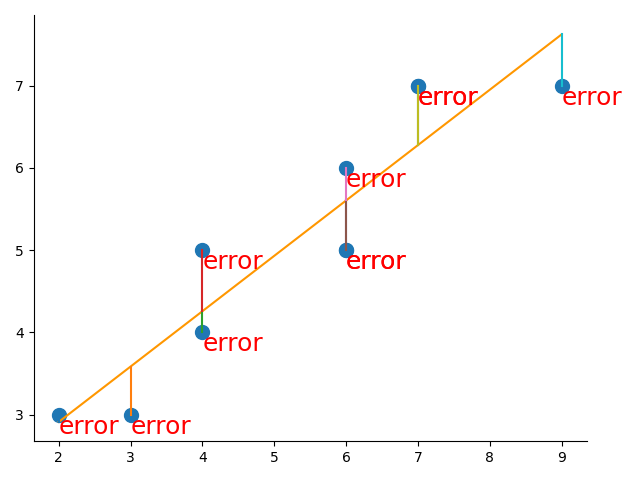
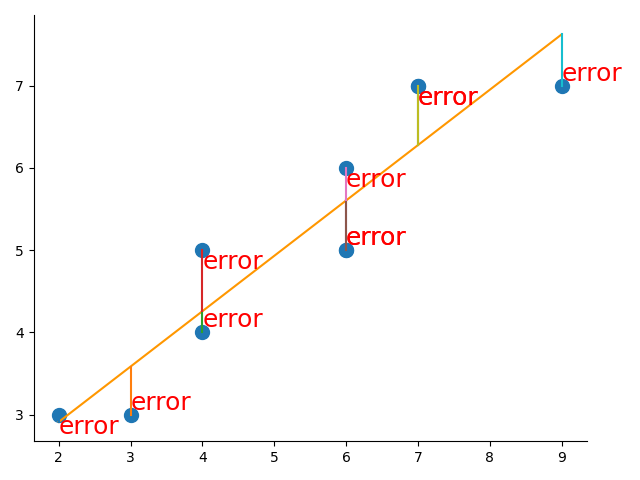
setInfo

diff --git a/test/fun/test_LeastSquaresRegression.py b/test/fun/test_LeastSquaresRegression.py
@@ -76,17 +76,15 @@ class TDD_TEST_LEASTSQUARESREGRESSION(unittest.TestCase):
     def test_least_squares_definition(self):
         # A way of finding a "line of best fit" by making the total of the square of the errors as small as possible (which is why it is called "least squares").
         x, y = self.p.getSortedXyInt((0,10,10),(2.5,8,10))
-        annos=[]
-        for item in zip(x,y):
-            t='error'
-            annos.append({'position': item, 'txt': t, 'color': 'red','fontsize':18,'center':'left','vertical':'top'})
         lineX=reduce(lambda acc,item:acc+[list(item)],zip(x,x),[])
         self.assertRaises(ValueError,lambda:self.p.predict(x))
-        predictY=self.p.leastSquaresRegression(x,y)[3]
+        self.p.setInfo({'x':x,'y':y})
+        predictY=self.p.predict(x)
         lineY=reduce(lambda acc,item:acc+[list(item)],zip(y,predictY),[])
+        annos=self.p.getAnnos(zip(x,y),predictY)
         self.p\
             .clear()\
-            .scatter({"x":x, "y": y},s=100)\
+            .scatter(s=100)\
             .plotFitLine(color='#FF9700')\
             .drawTxt(annos)\
             .plotLine(lineX,lineY,isSeparate=True)\
@@ -97,6 +95,5 @@ class TDD_TEST_LEASTSQUARESREGRESSION(unittest.TestCase):
         # self.p\
         #     .plotLine(x,y)\
         #     .pltCartesianCoordinate(hideAxis=True,hasLimit=True)\
-
 if __name__ == '__main__':
     unittest.main()

diff --git a/graphic/plot.py b/graphic/plot.py
@@ -18,6 +18,14 @@ class Plot(DoStats):
     xInterval=1
     def __init__(self):
         self.fig, self.ax = self.getFigAx()
+    def setInfo(self,info):
+        self.info=info
+    def getAnnos(self,data,predictY):
+        annos=[]
+        for i,item in enumerate(data):
+            t='error'
+            annos.append({'position': item, 'txt': t, 'color': 'red','fontsize':18,'center':'left','vertical':'bottom' if item[1]<predictY[i] else 'top'})
+        return annos
     def pltCartesianCoordinate(self,hideAxis=False,hasLimit=False):
         ax = self.ax
         # scatter(x,y, s=100 ,marker='o', c=color)
